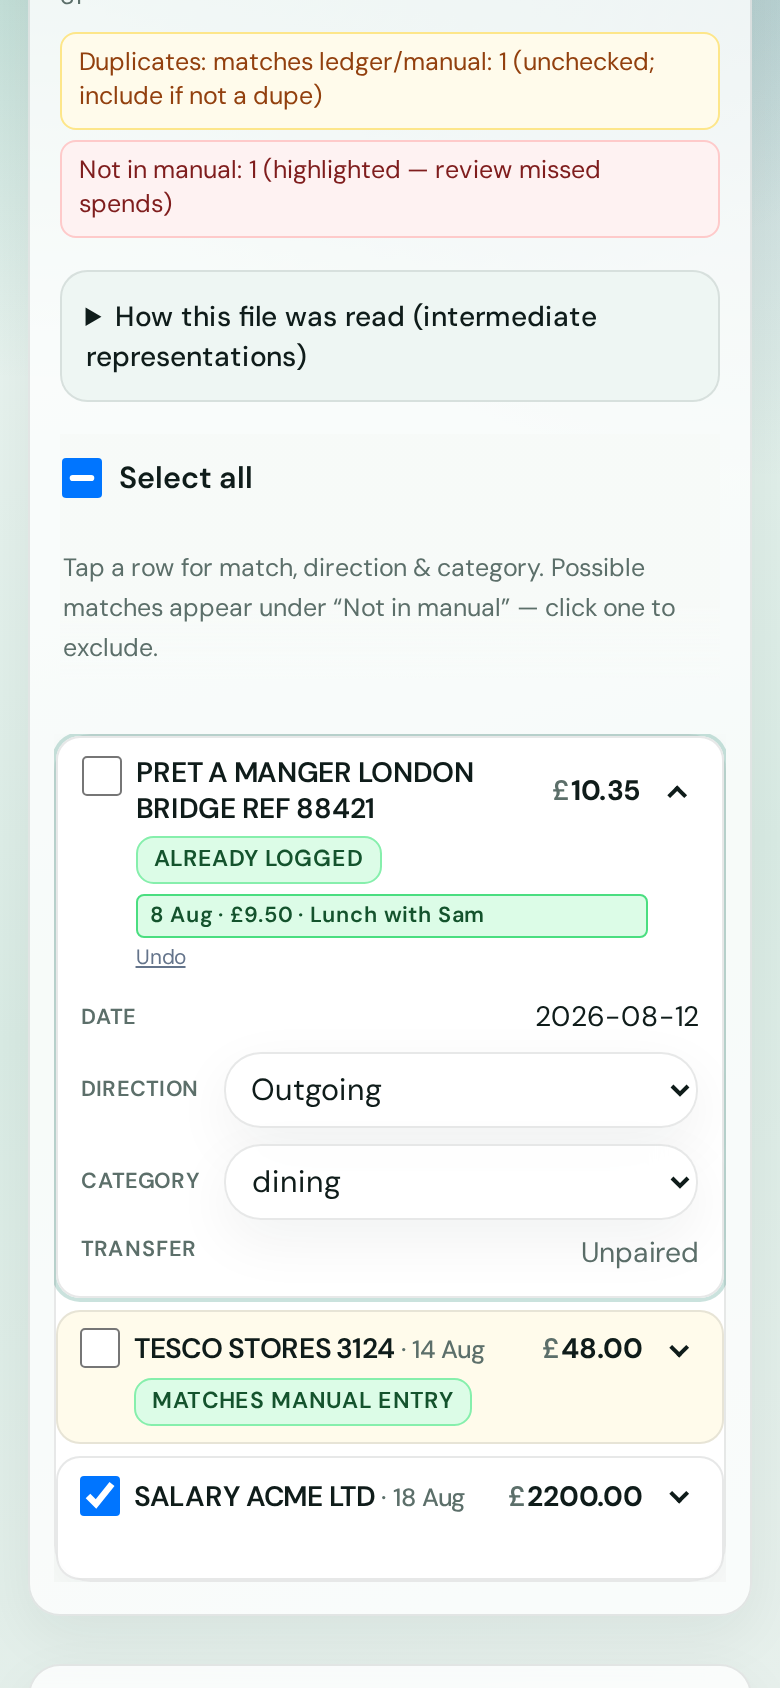
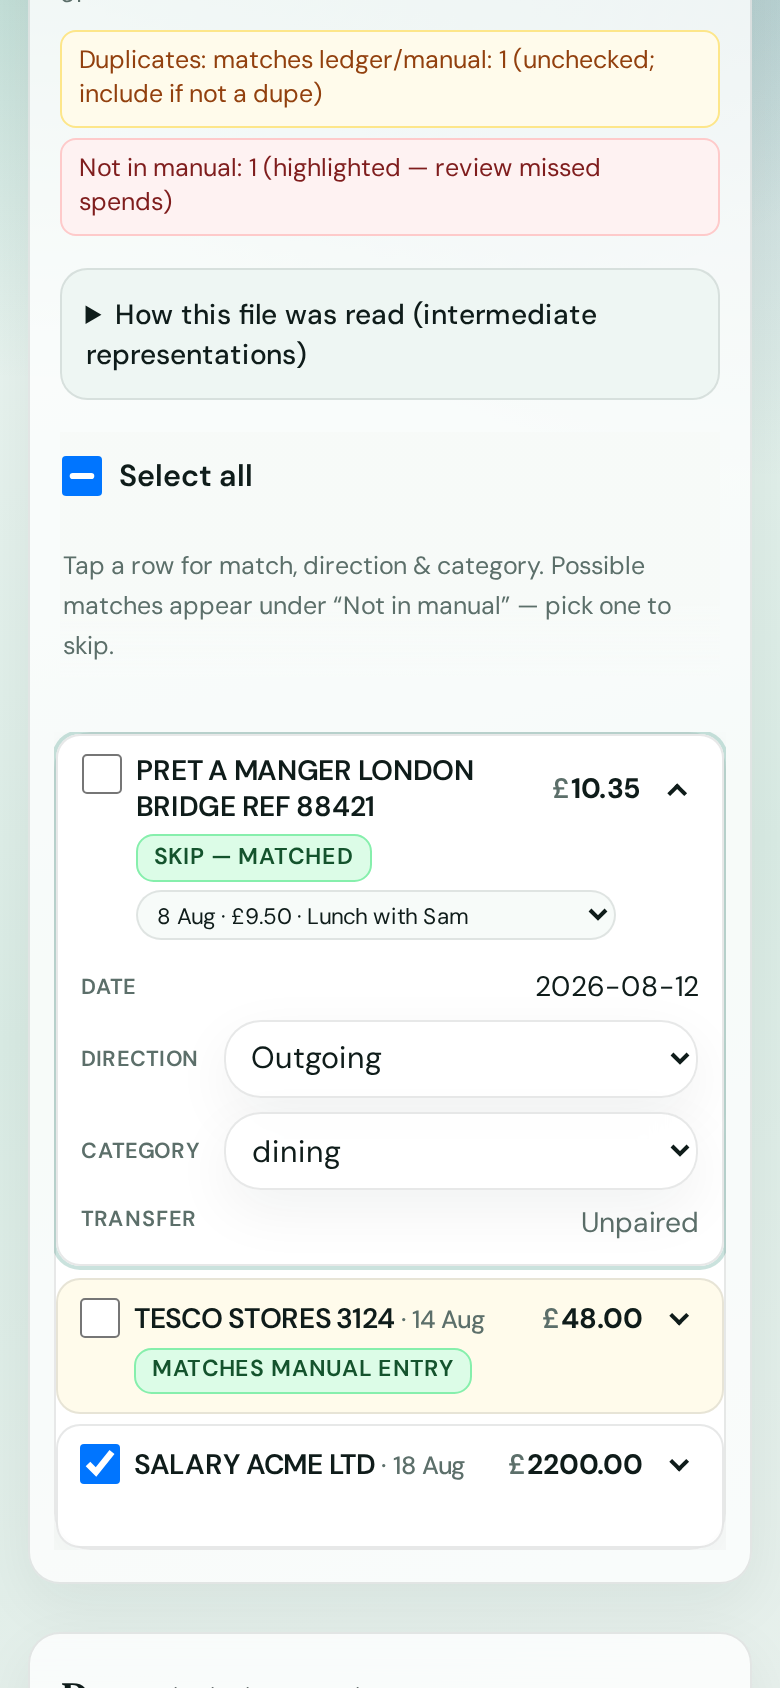
Use native select for match suggestions; rename dismiss label
Replace suggestion chips with a compact native dropdown under
Not in manual rows. Selected state reads Skip — matched instead of
Already logged.

diff --git a/static/spending.js b/static/spending.js
@@ -1154,7 +1154,7 @@ document.addEventListener('DOMContentLoaded', () => {
 
     function spendingPreviewMatchCell(isDup, dupReason, reviewReason, userDismissed) {
         if (userDismissed) {
-            return '<span class="preview-duplicate-pill" data-reason="manual" title="You marked this as already covered by a manual entry — excluded from import">Already logged</span>';
+            return '<span class="preview-duplicate-pill" data-reason="manual" title="Matched to a manual entry — excluded from this import">Skip — matched</span>';
         }
         if (isDup) {
             let label = 'Same as row in file';
@@ -1177,7 +1177,7 @@ document.addEventListener('DOMContentLoaded', () => {
         const amt = Number(manual.amount);
         const amtStr = Number.isFinite(amt) ? amt.toFixed(2) : '0.00';
         const desc = String(manual.description || 'Manual spend').trim() || 'Manual spend';
-        const shortDesc = desc.length > 28 ? `${desc.slice(0, 26)}…` : desc;
+        const shortDesc = desc.length > 36 ? `${desc.slice(0, 34)}…` : desc;
         return `${shortDate} · £${amtStr} · ${shortDesc}`;
     }
 
@@ -1195,21 +1195,21 @@ document.addEventListener('DOMContentLoaded', () => {
         const suggestions = parsePreviewSuggestions(tr);
         if (!suggestions.length) return '';
         const selected = tr.dataset.manualSuggestId || '';
-        const chips = suggestions
+        const opts = suggestions
             .map((m) => {
                 const id = String(m.id || '');
                 if (!id) return '';
-                const active = id === selected ? ' is-selected' : '';
-                const title = formatManualSuggestLabel(m);
-                return `<button type="button" class="preview-manual-suggest-chip${active}" data-manual-id="${escapeHtml(id)}" title="Mark as already logged — exclude from import">${escapeHtml(title)}</button>`;
+                const label = formatManualSuggestLabel(m);
+                const sel = id === selected ? ' selected' : '';
+                return `<option value="${escapeHtml(id)}"${sel}>${escapeHtml(label)}</option>`;
             })
             .filter(Boolean)
             .join('');
-        if (!chips) return '';
-        const clear = selected
-            ? '<button type="button" class="preview-manual-suggest-clear" title="Include this row again">Undo</button>'
-            : '';
-        return `<div class="preview-manual-suggest-list" role="group" aria-label="Possible manual matches">${chips}${clear}</div>`;
+        if (!opts) return '';
+        return (
+            `<select class="preview-manual-suggest-select" aria-label="Possible manual matches">` +
+            `<option value="">Possible matches…</option>${opts}</select>`
+        );
     }
 
     function refreshPreviewManualSuggestUi(tr) {
@@ -1237,23 +1237,15 @@ document.addEventListener('DOMContentLoaded', () => {
             if (userDismissed || isDup) include.checked = false;
             else if (!isDup) include.checked = true;
         }
-        badgeCell.querySelectorAll('.preview-manual-suggest-chip').forEach((btn) => {
-            btn.addEventListener('click', (ev) => {
-                ev.preventDefault();
-                ev.stopPropagation();
-                const id = btn.getAttribute('data-manual-id') || '';
-                if (tr.dataset.manualSuggestId === id) delete tr.dataset.manualSuggestId;
-                else tr.dataset.manualSuggestId = id;
-                refreshPreviewManualSuggestUi(tr);
-                syncPreviewIncludeAll();
-            });
-        });
-        const clearBtn = badgeCell.querySelector('.preview-manual-suggest-clear');
-        if (clearBtn) {
-            clearBtn.addEventListener('click', (ev) => {
-                ev.preventDefault();
-                ev.stopPropagation();
-                delete tr.dataset.manualSuggestId;
+        const select = badgeCell.querySelector('.preview-manual-suggest-select');
+        if (select && !select.dataset.bound) {
+            select.dataset.bound = '1';
+            select.addEventListener('click', (ev) => ev.stopPropagation());
+            select.addEventListener('mousedown', (ev) => ev.stopPropagation());
+            select.addEventListener('change', () => {
+                const val = select.value || '';
+                if (val) tr.dataset.manualSuggestId = val;
+                else delete tr.dataset.manualSuggestId;
                 refreshPreviewManualSuggestUi(tr);
                 syncPreviewIncludeAll();
             });

diff --git a/static/style.css b/static/style.css
@@ -1605,7 +1605,7 @@ span.preview-review-pill[data-reason="expected_bill"] {
     border: 1px solid #94a3b8;
 }
 
-/* User dismissed a missed row via a suggested manual match (exclude from import) */
+/* User matched a missed row to a suggested manual (exclude from import) */
 tr.spending-preview-row-manual-dismissed:not(.spending-preview-row-duplicate) td {
     background-color: #f0fdf4;
 }
@@ -1613,50 +1613,29 @@ tr.spending-preview-row-manual-dismissed:not(.spending-preview-row-duplicate) td
     display: flex;
     flex-direction: column;
     align-items: flex-start;
-    gap: 0.35rem;
-    max-width: 16rem;
+    gap: 0.3rem;
+    max-width: 15rem;
 }
-.preview-manual-suggest-list {
-    display: flex;
-    flex-direction: column;
-    align-items: stretch;
-    gap: 0.2rem;
+select.preview-manual-suggest-select {
     width: 100%;
-}
-button.preview-manual-suggest-chip {
-    display: block;
-    width: 100%;
-    text-align: left;
-    font-size: 0.68rem;
-    line-height: 1.25;
-    padding: 0.2rem 0.4rem;
+    max-width: 15rem;
+    font-size: 0.7rem;
+    line-height: 1.3;
+    padding: 0.2rem 0.35rem;
+    border: 1px solid #d1d5db;
     border-radius: 0.25rem;
-    border: 1px solid #bbf7d0;
     background: #fff;
-    color: #14532d;
-    cursor: pointer;
-}
-button.preview-manual-suggest-chip:hover {
-    background: #ecfdf5;
-    border-color: #86efac;
-}
-button.preview-manual-suggest-chip.is-selected {
-    background: #dcfce7;
-    border-color: #4ade80;
-    font-weight: 600;
-}
-button.preview-manual-suggest-clear {
-    align-self: flex-start;
-    font-size: 0.65rem;
-    color: #64748b;
-    background: transparent;
-    border: none;
-    padding: 0;
-    cursor: pointer;
-    text-decoration: underline;
-}
-button.preview-manual-suggest-clear:hover {
     color: #334155;
+    cursor: pointer;
+}
+select.preview-manual-suggest-select:focus {
+    outline: none;
+    border-color: #86efac;
+    box-shadow: 0 0 0 2px rgba(134, 239, 172, 0.35);
+}
+tr.spending-preview-row-manual-dismissed select.preview-manual-suggest-select {
+    border-color: #86efac;
+    background: #f0fdf4;
 }
 
 /* Started outside period, completed/settled date inside (e.g. Revolut) */

diff --git a/templates/home.html b/templates/home.html
@@ -140,7 +140,7 @@
                         <input type="checkbox" id="preview-include-all" title="Select or deselect all rows" aria-label="Select or deselect all rows" />
                         <span>Select all</span>
                     </label>
-                    <p id="spending-preview-expand-hint" class="preview-expand-hint">Tap a row for match, direction &amp; category. Possible matches appear under “Not in manual” — click one to exclude.</p>
+                    <p id="spending-preview-expand-hint" class="preview-expand-hint">Tap a row for match, direction &amp; category. Possible matches appear under “Not in manual” — pick one to skip.</p>
                 </div>
                 <div class="import-preview-scroll">
                     <table class="min-w-full text-sm preview-tx-table" style="border-color: var(--border-color);">
